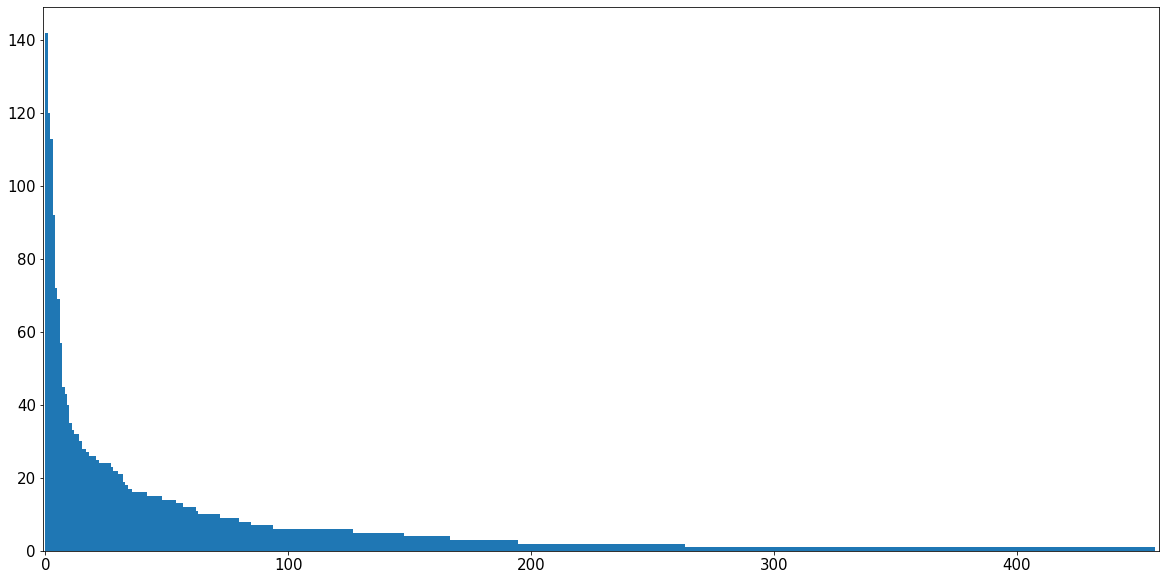
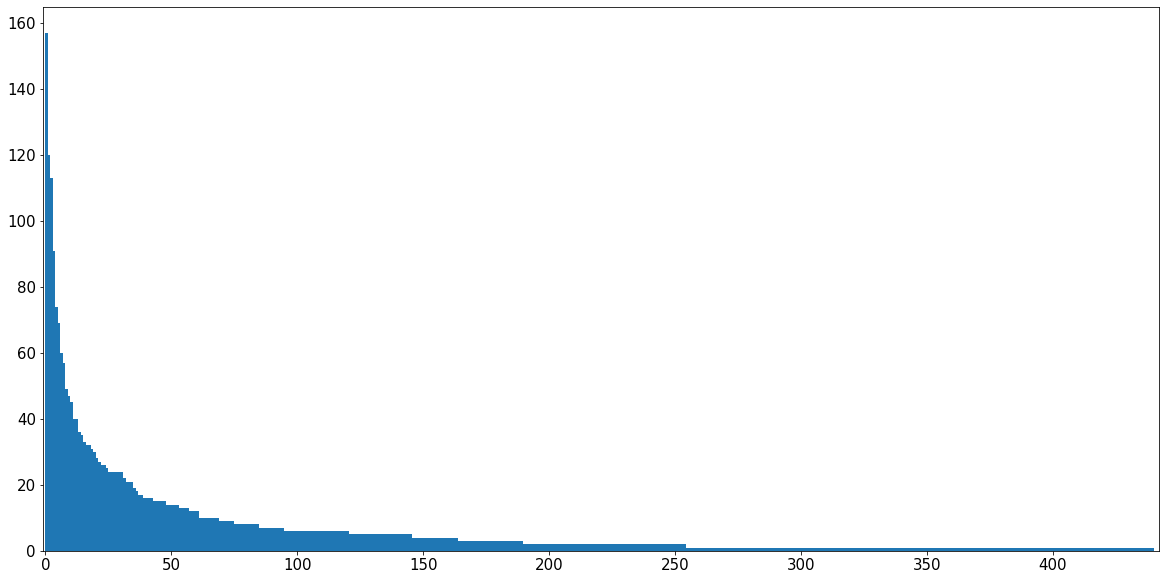
update data till 06/21

diff --git a/Yuren/readme.md b/Yuren/readme.md
@@ -24,15 +24,132 @@ Top 150 frequency: 142 120 113  92  72  69  57  45  43  40  35  33  32  32  30  
 
 Tested with sonotypes with highest k number of data
 
+ 10*np.log10(Sxx). Not work
+
+### 43 data for different number of classes
+
+<img src="/Users/sun/Typora_pics/43_sonotypes_comparison.png" alt="43_sonotypes_comparison" style="zoom:50%;" />
+
+52, 138, 463, 86, 139, 220
+
+| Classes | validation number | Accuracy |
+| :------ | ----------------- | -------- |
+| 2       | 9                 | 0.8889   |
+| 3       | 13                | 76.92    |
+| 4       | 18                | 44.44    |
+| 5       | 22                | 40.91    |
+| 6       | 28                | 30.77    |
+
+3 loss: 0.4509 - accuracy: 0.7759 - val_loss: 0.9303 - val_accuracy: 0.7692
+4 loss: 1.0052 - accuracy: 0.5649 - val_loss: 1.4301 - val_accuracy: 0.4444
+5 loss: 0.3115 - accuracy: 0.8860 - val_loss: 3.6770 - val_accuracy: 0.4091
+
+### Thresholding, normalization
+
+Tested with only birds
+Sonotypes (order or decreasing number): 52, 138, 463, 86, 139, 220
+normalization with ((cur_spec - s_min)/(s_max - s_min) * 255)
+
+| Types | number of data/each | Thresholding (70-90) | Normalization, * 255 | Normalization | w/o both |
+| :---- | ------------------- | -------------------- | -------------------- | ------------- | -------- |
+| 2     | 120                 | 95.83                | 100                  | 95.83         | 62.50    |
+| 3     | 91                  | 95.83                | 97.92                | 95.83         | 40.00    |
+| 4     | 57                  | 60.87                | 60.87                | 54.35         |          |
+| 5     | 45                  | 43.48                | 43.38                |               |          |
+| 6     | 43                  | 26.92                | 30.77                |               |          |
+
+Normalization, *255
+2: loss: 0.0011 - accuracy: 1.0000 - val_loss: 0.0211 - val_accuracy: 1.0000
+3: oss: 0.0150 - accuracy: 0.9948 - val_loss: 0.0819 - val_accuracy: 0.9792
+4: loss: 0.0842 - accuracy: 0.9805 - val_loss: 4.4760 - val_accuracy: 0.6087
+5: loss: 0.3897 - accuracy: 0.8713 - val_loss: 3.1227 - val_accuracy: 0.4348
+6: loss: 2.4047 - accuracy: 0.2802 - val_loss: 1.9193 - val_accuracy: 0.3077
+
+Normalization, no *255
+2: loss: 0.0013 - accuracy: 1.0000 - val_loss: 0.0809 - val_accuracy: 0.9583
+3: loss: 0.0709 - accuracy: 0.9844 - val_loss: 0.1802 - val_accuracy: 0.9583
+4: loss: 0.2645 - accuracy: 0.9011 - val_loss: 3.5054 - val_accuracy: 0.5435
+
+
+
 ### Experiment
+
+52 & 86, overlap in frequency range, able to classify with 57 data
+loss: 0.0341 - accuracy: 0.9890 - val_loss: 0.0302 - val_accuracy: 1.0000
 
  **To know how many samples are needed**
 
-<!--（to be done)-->Pick the 3 classes (52,138,463) that have high accuracy (92%). Say that these classes have 92 samples. Do tests decreasing the sample size: 92,91,90,....and plot how the accuracy (Y-axis) changes with sample size (X-axis). This will allow us to know how many samples are needed
+Pick the 3 classes (52,138,463) that have high accuracy (92%). Say that these classes have 92 samples. Do tests decreasing the sample size: 92,91,90,....and plot how the accuracy (Y-axis) changes with sample size (X-axis). This will allow us to know how many samples are needed
 
-#### Repeat the above experiment with only 2 classes, 52 and 138
+Need to repeat for many times till get the random data good enough to reach the high accuracy starting from 80 data
+Repeat: model is easy to overfit the training data. The val_loss goes high after a few epoches.
 
-<!--need to check the generated spectrogram-->
+![accurancy_different_sample_size](/Users/sun/Typora_pics/accurancy_different_sample_size.png)
+
+#### 3 classes, 52, 138, 463
+
+28 data for validation
+91 loss: 0.0150 - accuracy: 0.9948 - val_loss: 0.0819 - val_accuracy: 0.9792
+
+27 for validation
+90 loss: 0.0516 - accuracy: 0.9918 - val_loss: 0.2503 - val_accuracy: 0.9529
+89 loss: 0.0641 - accuracy: 0.9708 - val_loss: 0.3682 - val_accuracy: 0.9259
+88 loloss: 0.0093 - accuracy: 1.0000 - val_loss: 0.2222 - val_accuracy: 0.9630
+87 loss: 0.0154 - accuracy: 0.9957 - val_loss: 0.4732 - val_accuracy: 0.9630
+
+26 for validation
+86 loss: 0.1802 - accuracy: 0.9353 - val_loss: 0.2362 - val_accuracy: 0.9231
+85 loss: 0.0873 - accuracy: 0.9782 - val_loss: 0.1352 - val_accuracy: 0.9615
+84 loss: 0.1341 - accuracy: 0.9558 - val_loss: 0.2886 - val_accuracy: 0.9615
+
+25 for validation
+83 loss: 31.4726 - accuracy: 0.8616 - val_loss: 1.6562 - val_accuracy: 0.9600
+82 loss: 32.5113 - accuracy: 0.9616 - val_loss: 3.1294 - val_accuracy: 0.9600
+81  loss: 74.6881 - accuracy: 0.8211 - val_loss: 397.4071 - val_accuracy: 0.9200
+
+24 for validation
+80 loss: 140.2473 - accuracy: 0.6991 - val_loss: 39.7443 - val_accuracy: 0.8333
+79 loss: 0.0894 - accuracy: 0.9718 - val_loss: 0.9891 - val_accuracy: 0.8333
+78 loss: 0.0892 - accuracy: 0.9619 - val_loss: 0.3288 - val_accuracy: 0.9583
+77 loss: 25.5467 - accuracy: 0.9324 - val_loss: 16.5913 - val_accuracy: 0.9167
+
+23 for validation
+76 loss: 8.3883 - accuracy: 0.9707 - val_loss: 91.9992 - val_accuracy: 0.8696
+75 loss: 3.9293 - accuracy: 0.9752 - val_loss: 7.3834 - val_accuracy: 0.8696
+74 loss: 21.2090 - accuracy: 0.9296 - val_loss: 23.0440 - val_accuracy: 0.9130
+
+22 for validation
+73 loss: 15.3687 - accuracy: 0.9594 - val_loss: 133.4415 - val_accuracy: 0.8636
+72 loss: 19.4985 - accuracy: 0.9227 - val_loss: 13.9987 - val_accuracy: 0.8636
+71 loss: 3.9067 - accuracy: 0.9581 - val_loss: 57.5173 - val_accuracy: 0.9091
+
+21 for validation
+70 loss: 3.9066 - accuracy: 0.9683 - val_loss: 22.7109 - val_accuracy: 0.8571
+69 loss: 3.9034 - accuracy: 0.9892 - val_loss: 32.5230 - val_accuracy: 0.9048
+68 loss: 7.0706 - accuracy: 0.9727 - val_loss: 77.9176 - val_accuracy: 0.9524
+67 loss: 24.7759 - accuracy: 0.9333 - val_loss: 79.8080 - val_accuracy: 0.9048
+
+20 for validation
+66 loss: 9.9766 - accuracy: 0.9551 - val_loss: 12.9988 - val_accuracy: 0.9000
+65 loss: 46.5290 - accuracy: 0.8914 - val_loss: 17.8715 - val_accuracy: 0.9000
+64 loss: 8.5313 - accuracy: 0.9593 - val_loss: 46.5058 - val_accuracy: 0.9000
+
+19 for validation
+63 loss: 6.8372 - accuracy: 0.9706 - val_loss: 38.7598 - val_accuracy: 0.8947
+62 loss: 6.5576 - accuracy: 0.9641 - val_loss: 6.5716 - val_accuracy: 0.8947
+61 loss: 12.3140 - accuracy: 0.9390 - val_loss: 30.0597 - val_accuracy: 0.8947
+
+18 for validation
+60 loss: 17.2051 - accuracy: 0.9568 - val_loss: 49.0847 - val_accuracy: 0.8333
+59 loss: 6.6145 - accuracy: 0.9560 - val_loss: 14.3925 - val_accuracy: 0.8889
+58 loss: 13.2819 - accuracy: 0.9679 - val_loss: 90.0838 - val_accuracy: 0.8333
+57 
+
+
+
+
+#### 2 classes, 52 and 138
+
 **Current resuls are not stable and change a lot with different randomly choose training & testing data.**
 
 Test 30 more epoch when achieve a higher val_accuracy or the val_loss keeps decreasing.
@@ -146,8 +263,8 @@ Test 30 more epoch when achieve a higher val_accuracy or the val_loss keeps decr
 50 loss: 0.1375 - accuracy: 0.9556 - val_loss: 2.1524 - val_accuracy: 0.6000
 	loss: 0.0737 - accuracy: 0.9889 - val_loss: 0.2495 - val_accuracy: 0.9000
 49 loss: 0.0017 - accuracy: 1.0000 - val_loss: 0.0520 - val_accuracy: 1.0000
-48 x3 loss: 0.1620 - accuracy: 0.9535 - val_loss: 0.0731 - val_accuracy: 1.0000
-47 x6 loss: 0.0783 - accuracy: 0.9643 - val_loss: 0.0168 - val_accuracy: 1.0000
+48 x3 loss: 0.1620 - accuracy: 0.9535 - val_loss: 0.0731 - val_accuracy: 0.9000
+47 x6 loss: 0.0783 - accuracy: 0.9643 - val_loss: 0.0168 - val_accuracy: 0.9000
 46 x4 loss: 0.0252 - accuracy: 0.9878 - val_loss: 0.0351 - val_accuracy: 1.0000
 
 9 for validation
@@ -155,19 +272,19 @@ Test 30 more epoch when achieve a higher val_accuracy or the val_loss keeps decr
 44 x4 loss: 0.1394 - accuracy: 0.9367 - val_loss: 0.1448 - val_accuracy: 1.0000
 43 x8 loss: 0.0038 - accuracy: 1.0000 - val_loss: 0.7115 - val_accuracy: 0.8889
 		loss: 0.2686 - accuracy: 0.9221 - val_loss: 0.0881 - val_accuracy: 1.0000
-44 loss: 0.0051 - accuracy: 1.0000 - val_loss: 0.0120 - val_accuracy: 1.0000
-43 loss: 0.0468 - accuracy: 0.9733 - val_loss: 0.0954 - val_accuracy: 1.0000
-42 x2 loss: 0.0325 - accuracy: 1.0000 - val_loss: 0.0720 - val_accuracy: 1.0000
-41 loss: 0.0254 - accuracy: 0.9863 - val_loss: 0.0475 - val_accuracy: 1.0000
+44 loss: 0.0051 - accuracy: 1.0000 - val_loss: 0.0120 - val_accuracy: 0.8889
+43 loss: 0.0468 - accuracy: 0.9733 - val_loss: 0.0954 - val_accuracy: 0.8889
+42 x2 loss: 0.0325 - accuracy: 1.0000 - val_loss: 0.0720 - val_accuracy: 0.8889
+41 loss: 0.0254 - accuracy: 0.9863 - val_loss: 0.0475 - val_accuracy: 0.8889
 
 8 for validation
-40 loss: 0.1569 - accuracy: 0.9722 - val_loss: 0.0523 - val_accuracy: 1.0000
+40 loss: 0.1569 - accuracy: 0.9722 - val_loss: 0.0523 - val_accuracy: 0.8750
 
 6 for validation
-30  loss: 0.1526 - accuracy: 0.9630 - val_loss: 0.1200 - val_accuracy: 1.0000
+30  loss: 0.1526 - accuracy: 0.9630 - val_loss: 0.1200 - val_accuracy: 0.8333
 
 5 for validation
-25 loss: 0.0954 - accuracy: 0.9556 - val_loss: 0.2874 - val_accuracy: 1.0000
+25 loss: 0.0954 - accuracy: 0.9556 - val_loss: 0.2874 - val_accuracy: 0.8000
 24 loss: 0.0026 - accuracy: 1.0000 - val_loss: 1.5397 - val_accuracy: 0.8000
 23 loss: 0.0059 - accuracy: 1.0000 - val_loss: 1.1524 - val_accuracy: 0.8000
 22 x2 loss: 0.0156 - accuracy: 1.0000 - val_loss: 3.0134 - val_accuracy: 0.8000
@@ -195,7 +312,7 @@ Sonotypes (order or decreasing number): 52, 138, 463, 86, 139, 220
 | Types | number of data | Accuracy (%) |
 | :---- | -------------- | ------------ |
 | 2     | 120            | 95.83        |
-| 3     | 92             | 92.86        |
+| 3     | 91             | 92.86        |
 | 4     | 57             | 60.87        |
 | 5     | 45             | 43.48        |
 | 6     | 43             | 26.92        |
@@ -226,7 +343,7 @@ Sonotypes (order or decreasing number): 52, 138, 25, 463, 236
 | :---- | -------------- | ------------ |
 | 2     | 120            | 95.83        |
 | 3     | 113            | 44.12        |
-| 4     | 92             | 37.84        |
+| 4     | 91             | 37.84        |
 | 5     | 72             | 13.89        |
 
 2 types, 120 each
@@ -253,7 +370,7 @@ loss: 368.9658 - accuracy: 0.3958 - val_loss: 191.2737 - val_accuracy: 0.3784
 | :---- | -------------- | ------------ |
 | 2     | 120            | 81.48        |
 | 3     | 113            | 34.21        |
-| 4     | 92             | 19.15        |
+| 4     | 91             | 19.15        |
 
 2 types,
 
@@ -283,7 +400,7 @@ not work
 | :---- | -------------- | ------------ |
 | 2     | 120            | 81.48        |
 | 3     | 113            | 100          |
-| 4     | 92             | 100          |
+| 4     | 91             | 100          |
 | 5     | 72             | 95           |
 
 2 types, 120 each
